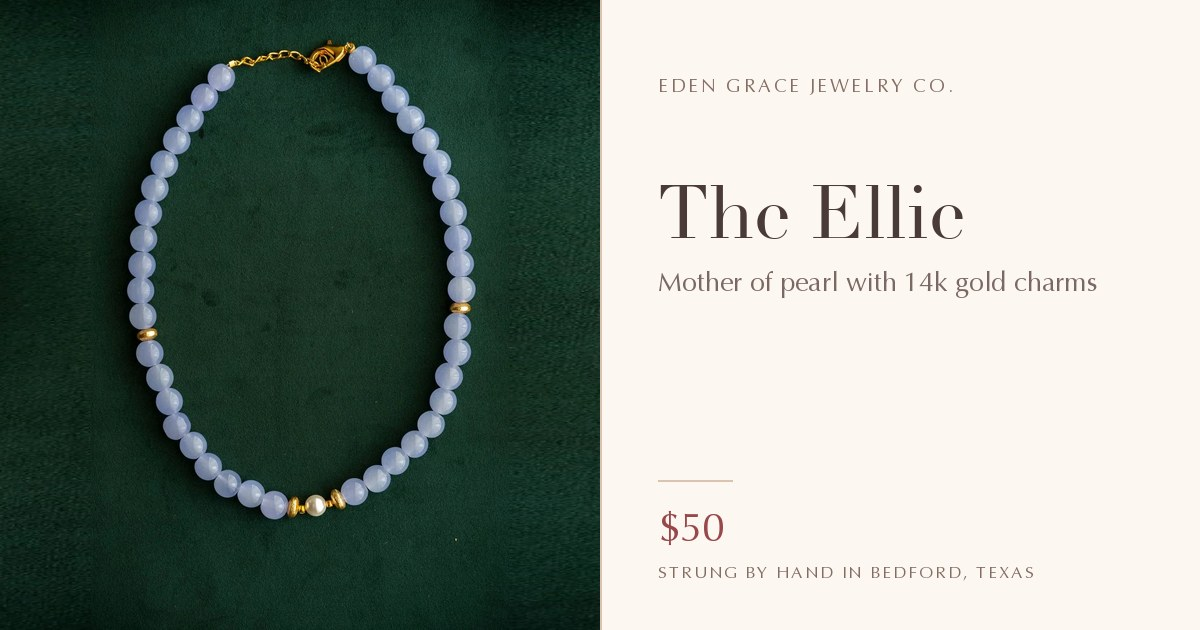
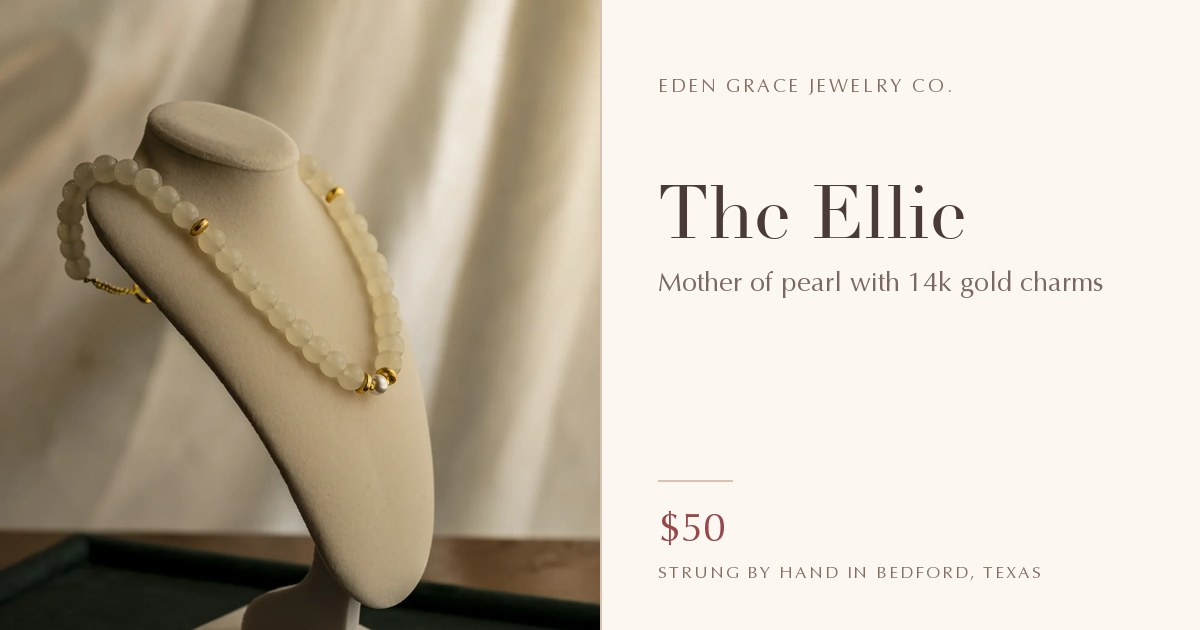
Update The Ellie colors and photos

diff --git a/functions/api/catalog.test.js b/functions/api/catalog.test.js
@@ -77,7 +77,7 @@ test('The Eden offers a $3 horseshoe charm priced by the server', () => {
   assert.match(priced.lines[0].description, /Horseshoe charm/);
 });
 
-test('The Ellie is priced from the shared server catalog', () => {
+test('The Ellie has two required colors and keeps its existing price and clasp option', () => {
   const ellie = PRODUCTS.find((product) => product.slug === 'the-ellie');
   assert.ok(ellie);
   assert.equal(ellie.name, 'The Ellie');
@@ -86,12 +86,37 @@ test('The Ellie is priced from the shared server catalog', () => {
   assert.match(ellie.description, /18 inch/);
   assert.match(ellie.description, /mother of pearl/);
   assert.match(ellie.description, /14k gold charms/);
+  assert.equal(ellie.image, 'ellie-translucent-white-bust');
+  assert.equal(ellie.gallery.length, 11);
 
-  const priced = priceCart([{ slug: 'the-ellie', qty: 1, addOns: [] }]);
-  assert.deepEqual(priced.missingRequired, []);
-  assert.equal(priced.subtotalCents, 5000);
-  assert.equal(priced.totalWeightOz, 4);
-  assert.equal(priced.lines[0].unitCents, 5000);
+  const color = ellie.addOns.find((addOn) => addOn.id === 'colour');
+  assert.ok(color);
+  assert.equal(color.required, true);
+  assert.deepEqual(color.choices, ['Neutral Pink', 'Translucent White']);
+
+  const clasp = ellie.addOns.find((addOn) => addOn.id === 'toggle-clasp');
+  assert.ok(clasp);
+  assert.equal(clasp.priceCents, 300);
+
+  for (const choice of color.choices) {
+    const priced = priceCart([
+      { slug: 'the-ellie', qty: 1, addOns: [{ id: 'colour', value: choice }] },
+    ]);
+    assert.deepEqual(priced.missingRequired, []);
+    assert.equal(priced.subtotalCents, 5000);
+    assert.equal(priced.totalWeightOz, 4);
+    assert.equal(priced.lines[0].unitCents, 5000);
+    assert.match(priced.lines[0].description, new RegExp(`Color Ways: ${choice}`));
+  }
+
+  const missingColor = priceCart([{ slug: 'the-ellie', qty: 1, addOns: [] }]);
+  assert.equal(missingColor.missingRequired.length, 1);
+
+  const retiredColor = priceCart([
+    { slug: 'the-ellie', qty: 1, addOns: [{ id: 'colour', value: 'Blue Gray' }] },
+  ]);
+  assert.equal(retiredColor.missingRequired.length, 1);
+  assert.ok(retiredColor.dropped.some((message) => message.includes('invalid colour for the-ellie')));
 });
 
 test('The Emmy is fixed at 16 inches with two colors and an optional clover charm', () => {

diff --git a/shared/catalog.js b/shared/catalog.js
@@ -316,10 +316,22 @@ const PRODUCTS = [
     material: 'mother of pearl and 14k gold',
     leadTime: 'Ships in 5 to 7 days',
     swatch: '#C8D5E8',
-    image: 'ellie-pearl-gold',
-    gallery: ['ellie-gold-detail', 'ellie-mother-of-pearl-detail'],
+    image: 'ellie-translucent-white-bust',
+    gallery: [
+      'ellie-neutral-pink-bust',
+      'ellie-translucent-white-flat',
+      'ellie-neutral-pink-flat',
+      'ellie-translucent-white-green-detail',
+      'ellie-neutral-pink-green-detail',
+      'ellie-translucent-white-bust-detail',
+      'ellie-translucent-white-side-detail',
+      'ellie-translucent-white-pearl-detail',
+      'ellie-neutral-pink-bust-detail',
+      'ellie-neutral-pink-side-detail',
+      'ellie-neutral-pink-pearl-detail',
+    ],
     // One fixed 18 inch strand. The description carries the length.
-    addOns: [TOGGLE_CLASP],
+    addOns: [colorWays(['Neutral Pink', 'Translucent White']), TOGGLE_CLASP],
   },
   {
     slug: 'the-abigail',
